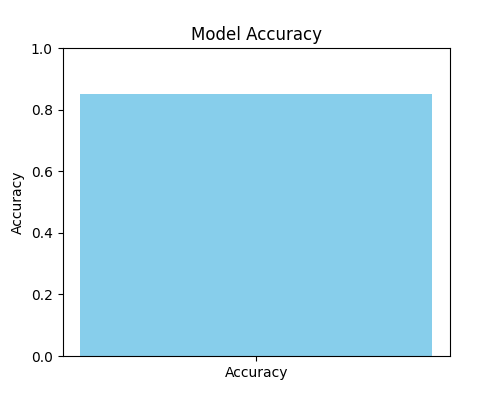
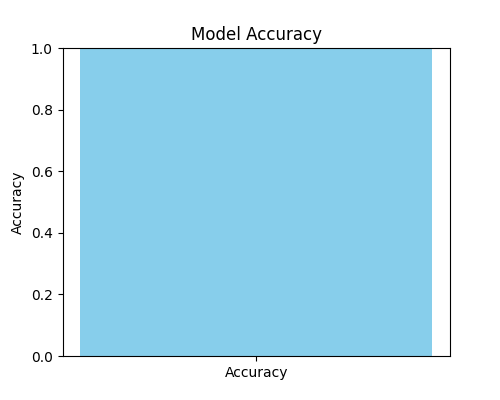
added new file

Changed region(s): [[0.15, 0.12, 0.87, 0.24]]

diff --git a/copd_predictor.py b/copd_predictor.py
@@ -1,4 +1,9 @@
+import os
+print("Current working directory:", os.getcwd())
 import pandas as pd
+import joblib
+
+model = joblib.load("copd_model.pkl")
 from sklearn.model_selection import train_test_split
 from sklearn.ensemble import RandomForestClassifier
 from sklearn.metrics import accuracy_score
@@ -7,8 +12,8 @@ from sklearn.metrics import accuracy_score
 data = pd.read_csv("copd_data.csv")
 
 
-X = data.drop("copd", axis=1)  # input features
-y = data["copd"]               # target column
+X = data.drop("copd", axis=1)  
+y = data["copd"]              
 
 
 X_train, X_test, y_train, y_test = train_test_split(X, y, test_size=0.2, random_state=42)
@@ -22,32 +27,40 @@ predictions = model.predict(X_test)
 accuracy = accuracy_score(y_test, predictions)
 print("✅ Model Accuracy:", round(accuracy * 100, 2), "%")
 
-
 def predict_copd():
     print("\n🩺 --- COPD Risk Checker ---")
-    age = int(input("Enter your age: "))
-    smoking = int(input("Do you smoke? (1 = Yes, 0 = No): "))
-    breath = int(input("Shortness of breath? (1 = Yes, 0 = No): "))
-    cough = int(input("Coughing frequently? (1 = Yes, 0 = No): "))
-    lung = int(input("Lung function test score (1 to 100): "))
+    try:
+        age = int(input("Enter your age (e.g. 45): "))
+        smoking = int(input("Do you smoke? (1 = Yes, 0 = No): "))
+        breath = int(input("Shortness of breath? (1 = Yes, 0 = No): "))
+        cough = int(input("Coughing frequently? (1 = Yes, 0 = No): "))
+        lung = int(input("Lung function test score (1 to 100): "))
+
+      
+        if smoking not in [0, 1] or breath not in [0, 1] or cough not in [0, 1] or not (1 <= lung <= 100):
+            print("⚠ Invalid input values. Please follow the instructions carefully.")
+            return
+
+    except ValueError:
+        print("❌ Invalid input. Please enter numeric values only.")
+        return
 
     user_input = [[age, smoking, breath, cough, lung]]
     result = model.predict(user_input)
 
     if result[0] == 1:
-        print(
-            "⚠ High risk of COPD. Please consult a doctor.")
+        print("⚠ High risk of COPD. Please consult a doctor.")
     else:
-        print(
-            "✅ Low risk of COPD. Stay healthy!")
+        print("✅ Low risk of COPD. Stay healthy!")
 
-predict_copd()
+if __name__ == "__main__":
+    predict_copd()
+
 
 import matplotlib.pyplot as plt
 import seaborn as sns
 
-#sample accuracy value 
-accuracy = 0.85  
+
 
 #accuracy plot
 plt.figure(figsize=(5, 4))
@@ -59,7 +72,8 @@ plt.savefig("accuracy_plot.png")  # Image same folder me
 print("✅ Accuracy graph saved as accuracy_plot.png")
 
 #Feature Importance Plot 
-importances = [0.2, 0.3, 0.1, 0.15, 0.25]
+importances = model.feature_importances_
+features = X.columns  
 features = ['age', 'smoking', 'cough', 'breath', 'lung']
 
 plt.figure(figsize=(7, 5))
@@ -75,6 +89,9 @@ import joblib  # Important
 
 joblib.dump(model, "copd_model.pkl")  
 print("✅ Model saved as copd_model.pkl")
+ 
+model = joblib.load("copd_model.pkl")
+
 
 
 

diff --git a/copd_web_app.py b/copd_web_app.py
@@ -1,0 +1,31 @@
+import streamlit as st
+import joblib
+import numpy as np
+
+# Load trained model
+model = joblib.load("copd_model.pkl")
+
+# Title
+st.title("🩺 COPD Risk Predictor")
+
+# User Input
+age = st.number_input("Enter your age", min_value=1, max_value=120, step=1)
+smoking_input = st.radio("Do you smoke?", ["Yes", "No"])
+smoking = 1 if smoking_input == "Yes" else 0
+
+breath_input = st.radio("Shortness of breath?", ["Yes", "No"])
+breath = 1 if breath_input == "Yes" else 0
+
+cough_input = st.radio("Coughing frequently?", ["Yes", "No"])
+cough = 1 if cough_input == "Yes" else 0
+
+lung = st.slider("Lung function score (1–100)", 1, 100)
+
+if st.button("Predict COPD Risk"):
+    user_input = np.array([[age, smoking, breath, cough, lung]])
+    result = model.predict(user_input)
+
+    if result[0] == 1:
+        st.error("⚠ High risk of COPD. Please consult a doctor.")
+    else:
+        st.success("✅ Low risk of COPD. Stay healthy!")
